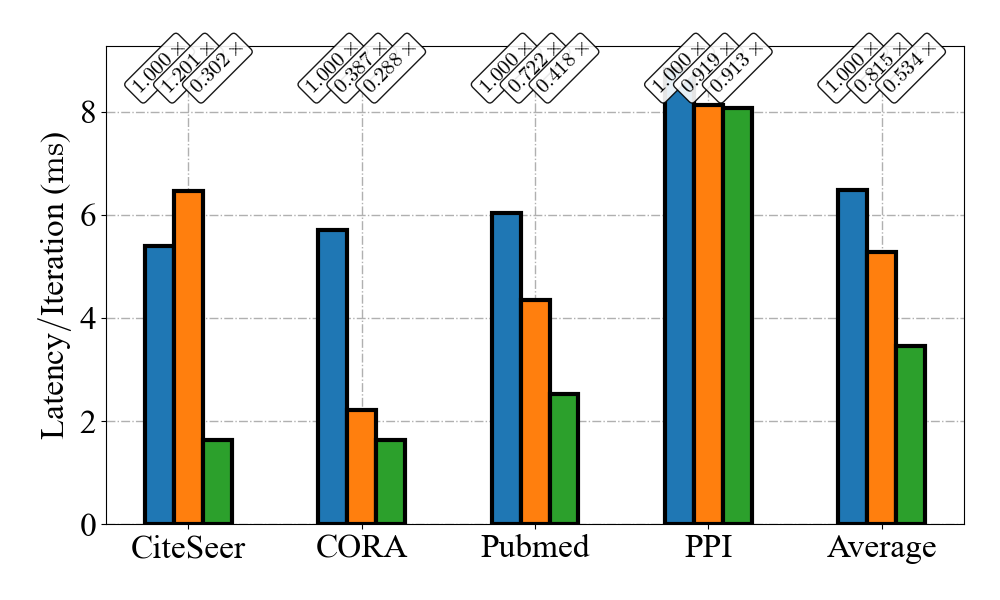
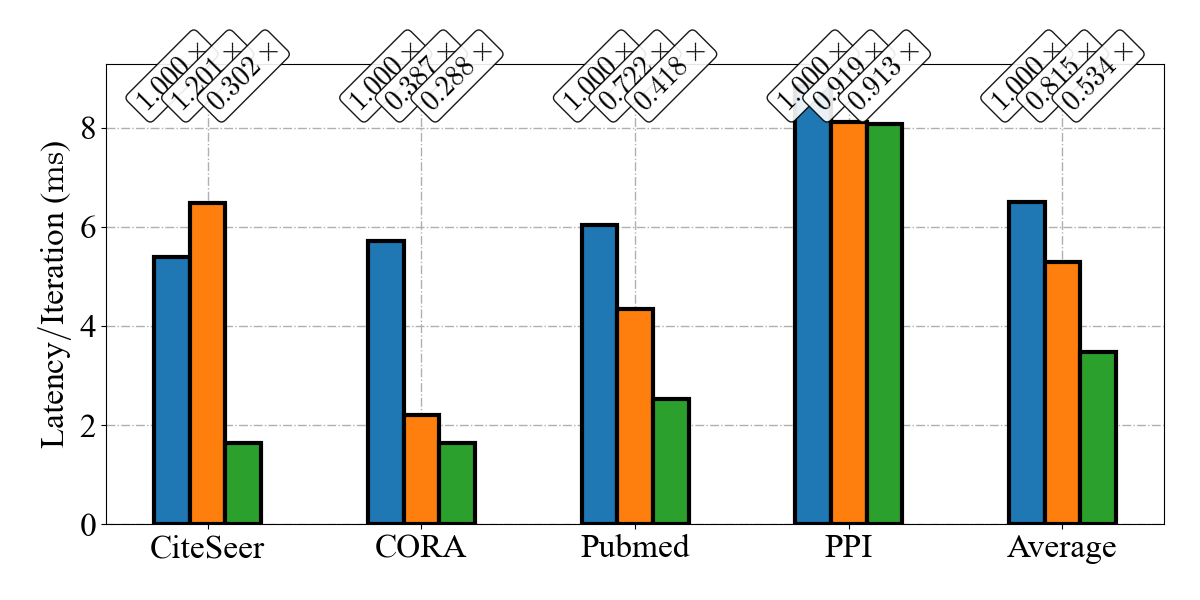
Update the figure

diff --git a/CSC2516/GNNAdvisor-saved_artifacts/test_plot.py b/CSC2516/GNNAdvisor-saved_artifacts/test_plot.py
@@ -217,7 +217,7 @@ def save_legend(handles, title, ncol=5, alphas=None):
 from collections import OrderedDict
 
 def test_perf():
-    fig = plt.figure(figsize=(10, 6))
+    fig = plt.figure(figsize=(12, 6))
     buffer = []
     num_measure_records = 0
 
@@ -265,7 +265,7 @@ def test_perf():
             plt.text(x, 0.9 * plt.ylim()[1],
                      r'$%.3f\times$' % (float(result[1]) / float(perf_results[dataset]['DGL'])),
                      ha='center', backgroundcolor='white',
-                     rotation=45, fontsize=15,
+                     rotation=45, fontsize=20,
                      bbox=dict(boxstyle="round", fc='white', alpha=0.9, pad=0.2))
             x += bar_width
         x += 3
@@ -276,7 +276,7 @@ def test_perf():
         plt.text(x, 0.9 * plt.ylim()[1],
                  r'$%.3f\times$' % (np.average([float(perf_results[d][result[0]]) for d in datasets_lowered]) / dgl_baseline_avg),
                  ha='center', backgroundcolor='white',
-                 rotation=45, fontsize=15,
+                 rotation=45, fontsize=20,
                  bbox=dict(boxstyle="round", fc='white', alpha=0.9, pad=0.2))
         x += bar_width
 
